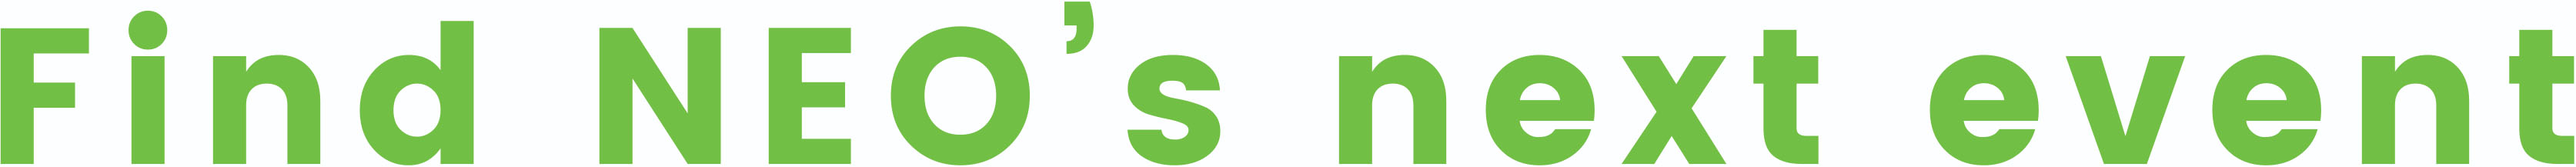
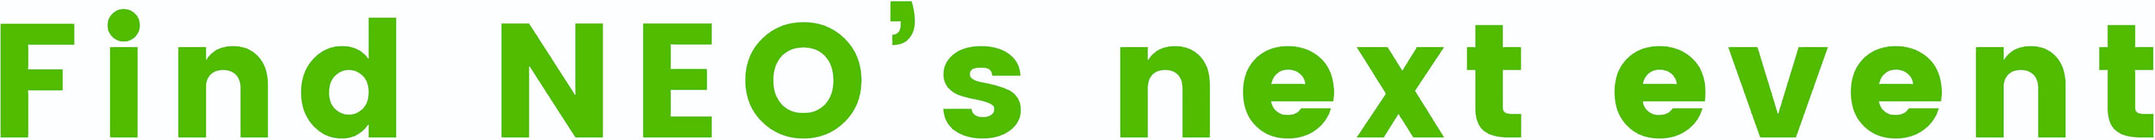
Feature/style (#700)
* 样式微调：颜色统一

* 样式调整

* 添加新钱包

diff --git a/NeoWeb/wwwroot/css/event.min.css b/NeoWeb/wwwroot/css/event.min.css
@@ -1,1 +1,1 @@
-body{background:#f3f3f3}select.form-control{border-radius:0;margin-right:10px}.btn{background:#9aca3d;color:#fff;border:none;border-radius:0;min-width:100px;letter-spacing:2px}.btn:focus,.btn:hover,.btn:active{background:#8aba2d!important;box-shadow:none!important;color:#fff}.event-line{border-bottom:3px solid #d6d6d6;position:relative;margin:12px 0;text-align:left}.event-btn{display:inline-block;background:#9aca3d;margin:10px;padding:5px 12px;color:#fff!important;font-weight:400!important}.event-btn:hover{background:#8aba2d;color:#fff!important}.event-line span{letter-spacing:3px;background-color:#f2f2f2;padding-left:10px;vertical-align:bottom;display:inline-block;margin-bottom:-8px}.event-item{position:relative;display:inline-block;margin:9px 6px;padding:5px;width:265px;border-radius:0;border:1px solid #fff;border-style:none solid;font-size:14px;text-align:center;word-break:normal;line-height:1.5;background-color:#fff;overflow:hidden;transition:box-shadow .5s;vertical-align:top}.event-item:hover{box-shadow:0 0 0 2px rgba(40,167,69,.5)}.event-item small{color:#6c6c6c;font-size:11px}.event-item img{max-width:100%;height:126.5px}.event-item img+div{border-top:1px solid #28a745}.event-item .org{margin:20px 5px 0;line-height:35px;border-top:1px solid #d3d3d3;text-align:left;color:#808080}.event-item .address,.event-item .date{color:#808080}.event-detail .type-img{border:2px solid #ebebeb}.event-detail .row{font-weight:bold}.event-detail{font-weight:normal;color:#222;background-color:#fff;padding:10px 20px;margin:30px 0;box-shadow:3px 3px 1px #e8e8e8}.event-detail .iconfont{vertical-align:middle;color:#8aba2d;font-weight:100}.event-detail .ticket-free{position:absolute;width:0;height:0;border-left:23px solid #9aca3d;border-top:23px solid #9aca3d;border-bottom:23px solid transparent;border-right:23px solid transparent}.ticket-free::after{content:"Free";position:absolute;top:-18px;left:-20px;color:#fff;font-size:12px}.event-detail img.type-img{width:100%;max-width:150px;max-height:150px;min-width:125px;min-height:125px}.event-detail a{color:#222;font-weight:600;letter-spacing:2px}.event-detail a:hover{color:#8aba2d}.event-detail a:active,.event-detail a:visited{color:#222}.e-detail-title:after{content:" ";border-bottom:2px solid #9aca3d;display:block;margin-top:5px}.event-detail .line{border-top:1px solid #d3d3d3;margin:5px 0}.search-group{margin:auto;width:80%}#eventCarousel img{max-height:370px}ul,li{list-style:none;margin:0;padding:0}.calender{padding:15px 0;min-height:300px}.calender .dis-table{width:100%;padding:15px 10px;color:#222;vertical-align:middle}.calender .iconfont{font-size:14px;vertical-align:middle;color:#737373;cursor:pointer}.calender .dis-table-cell{width:33%}.calender hr{border-top-color:#9aca3d;border-width:20px}.calender ul{margin:auto;vertical-align:top;font-size:0;text-align:left}.calender li{display:inline-block;width:14.1%;min-height:20px;vertical-align:top;text-align:center;white-space:normal;word-break:break-all;padding:5px;color:#222;font-size:18px;font-weight:600;white-space:nowrap}.cal-head li{font-size:12px;font-weight:100}.calender .had-event{color:#222;background:url(https://neo-cdn.azureedge.net/images/event/circle.png) no-repeat center;background-size:contain;border-radius:100%}.calender .today-mark{color:#00a04a}.calender .today-mark a{color:#00a04a}.contact-us{padding:20px 20px 10px;color:#222;line-height:1.4;font-weight:600;text-align:left;border-bottom:20px solid #8aba2d}.contact-us a{color:#222}.had-event a,.had-event a:hover,.had-event a:visited,.had-event a:active{color:#222}.select-news{border:1px solid #444}.news-list{display:inline-block;width:33%;vertical-align:top}.news-li{max-width:300px;width:100%}.news-li img{width:inherit}.event-banner{background-image:url(/images/event/homepage_hero_banner.jpg);padding:300px 0 50px;margin-bottom:80px}.event-banner .search-div{margin-bottom:-100px;background:linear-gradient(rgba(255,255,255,.9) 0%,#fff 25%);padding:50px;box-shadow:#ccc 8px 8px 0}.event-banner .container h1{color:#58bf00;font-size:72px;font-weight:bold}.left-to-center{text-align:right}@media only screen and (max-width:992px){.search-group{width:90%;margin:auto}.event-banner{padding:100px 0 50px}.event-banner .search-div{padding:50px 20px}}@media only screen and (max-width:576px){.search-div img{margin-bottom:30px!important}.event-banner .search-div{padding:20px}.left-to-center{text-align:center}}
+body{background:#f3f3f3}select.form-control{border-radius:0;margin-right:10px}.btn{background:#51bc00;color:#fff;border:none;border-radius:0;min-width:100px;letter-spacing:2px}.btn:focus,.btn:hover,.btn:active{background:#8aba2d!important;box-shadow:none!important;color:#fff}.event-line{border-bottom:3px solid #d6d6d6;position:relative;margin:12px 0;text-align:left}.event-btn{display:inline-block;background:#51bc00;margin:10px;padding:5px 12px;color:#fff!important;font-weight:400!important}.event-btn:hover{background:#8aba2d;color:#fff!important}.event-line span{letter-spacing:3px;background-color:#f2f2f2;padding-left:10px;vertical-align:bottom;display:inline-block;margin-bottom:-8px}.event-item{position:relative;display:inline-block;margin:9px 6px;padding:5px;width:265px;border-radius:0;border:1px solid #fff;border-style:none solid;font-size:14px;text-align:center;word-break:normal;line-height:1.5;background-color:#fff;overflow:hidden;transition:box-shadow .5s;vertical-align:top}.event-item:hover{box-shadow:0 0 0 2px rgba(40,167,69,.5)}.event-item small{color:#6c6c6c;font-size:11px}.event-item img{max-width:100%;height:126.5px}.event-item img+div{border-top:1px solid #28a745}.event-item .org{margin:20px 5px 0;line-height:35px;border-top:1px solid #d3d3d3;text-align:left;color:#808080}.event-item .address,.event-item .date{color:#808080}.event-detail .type-img{border:2px solid #ebebeb}.event-detail .row{font-weight:bold}.event-detail{font-weight:normal;color:#222;background-color:#fff;padding:10px 20px;margin:30px 0;box-shadow:3px 3px 1px #e8e8e8}.event-detail .iconfont{vertical-align:middle;color:#51bc00;font-weight:100}.event-detail .ticket-free{position:absolute;width:0;height:0;border-left:23px solid #51bc00;border-top:23px solid #51bc00;border-bottom:23px solid transparent;border-right:23px solid transparent}.ticket-free::after{content:"Free";position:absolute;top:-18px;left:-20px;color:#fff;font-size:12px}.event-detail img.type-img{width:100%;max-width:150px;max-height:150px;min-width:125px;min-height:125px}.event-detail a{color:#222;font-weight:600;letter-spacing:2px}.event-detail a:hover{color:#8aba2d}.event-detail a:active,.event-detail a:visited{color:#222}.e-detail-title:after{content:" ";border-bottom:2px solid #51bc00;display:block;margin-top:5px}.event-detail .line{border-top:1px solid #d3d3d3;margin:5px 0}.search-group{margin:auto;width:80%}#eventCarousel img{max-height:370px}ul,li{list-style:none;margin:0;padding:0}.calender{padding:15px 0;min-height:300px}.calender .dis-table{width:100%;padding:15px 10px;color:#222;vertical-align:middle}.calender .iconfont{font-size:14px;vertical-align:middle;color:#737373;cursor:pointer}.calender .dis-table-cell{width:33%}.calender hr{border-top-color:#51bc00;border-width:20px}.calender ul{margin:auto;vertical-align:top;font-size:0;text-align:left}.calender li{display:inline-block;width:14.1%;min-height:20px;vertical-align:top;text-align:center;white-space:normal;word-break:break-all;padding:5px;color:#222;font-size:18px;font-weight:600;white-space:nowrap}.cal-head li{font-size:12px;font-weight:100}.calender .had-event{color:#222;background:url('https://neo-cdn.azureedge.net/images/event/circle.png') no-repeat center;background-size:contain;border-radius:100%}.calender .today-mark{color:#00a04a}.calender .today-mark a{color:#00a04a}.contact-us{padding:20px 20px 10px;color:#222;line-height:1.4;font-weight:600;text-align:left;border-bottom:20px solid #8aba2d}.contact-us a{color:#222}.had-event a,.had-event a:hover,.had-event a:visited,.had-event a:active{color:#222}.select-news{border:1px solid #444}.news-list{display:inline-block;width:33%;vertical-align:top}.news-li{max-width:300px;width:100%}.news-li img{width:inherit}.event-banner{background-image:url(/images/event/homepage_hero_banner.jpg);background-size:cover;padding:300px 0 50px;margin-bottom:80px}.event-banner .search-div{margin-bottom:-100px;background:linear-gradient(rgba(255,255,255,.9) 0%,#fff 25%);padding:50px;box-shadow:#ccc 8px 8px 0}.event-banner .container h1{color:#58bf00;font-size:72px;font-weight:bold}.left-to-center{text-align:right}@media only screen and (max-width:992px){.search-group{width:90%;margin:auto}.event-banner{padding:100px 0 50px}.event-banner .search-div{padding:50px 20px}}@media only screen and (max-width:576px){.search-div img{margin-bottom:30px!important}.event-banner .search-div{padding:20px}.left-to-center{text-align:center}}

diff --git a/NeoWeb/wwwroot/css/blog.min.css b/NeoWeb/wwwroot/css/blog.min.css
@@ -1,1 +1,1 @@
-body,html{height:auto}ul,ol{margin-bottom:0}.blog-container{text-align:center;color:#6c6c6c;font-weight:100}a{cursor:pointer;text-decoration:none;word-break:break-word}.blog_title{font-weight:100;letter-spacing:3px;text-align:center}.search-form{max-width:400px;margin:auto}.blog_date::before,.blog_date::after{content:"";display:table}.blog_date::after{clear:both}.blog_date ul{display:none;padding:0}.col-lg-1.blog_date{padding:0}.blog_date>li a{cursor:pointer;text-decoration:none}.blog_date>li:last-child{padding-right:0}.blog_scroll{overflow-y:auto}.blog_scroll::-webkit-scrollbar{width:5px;height:5px;background-color:transparent}.blog_scroll::-webkit-scrollbar-track{background-color:transparent}.blog_scroll::-webkit-scrollbar-thumb{border-radius:5px;background-color:#aaa}.language li{display:inline-block;margin:0 20px 20px 0}.blog_date li,.blog_date li a{color:#aaa}.year:hover,.year:focus,.month:hover,.month:focus{color:#58bf00}.blog-list li{padding:30px 40px;background:#fff;color:#888;text-align:left}.blog-list li:first-child{margin-top:0!important}.blog-list a.blog-title{color:#6c6c6c;text-decoration:none}.blog-list a.blog-title:hover{color:#58bf00}.blog-list a.blog-summary{color:#888;text-decoration:none}.blog-list a.blog-summary:hover{color:#aaa}.blog_date.artical-date{padding-top:50px}.nav-artical{line-height:2}.nav-artical div{display:inline-block;width:32.5%}.nav-artical .prev-artical{margin-right:30px}.artical-content{background:#fff;padding:42px 100px;font-family:"Source-Han-Light","Microsoft YaHei",PingFangSC-Light,"PingHei","Lucida Grande","STHeitiSC-Light","BBAlpha Sans","S60 Sans","Hiragino Sans GB","Microsoft YaHei Light","Verdana",SimHei,"WenQuanYi Micro Hei",sans-serif;font-size:18px}@media only screen and (max-width:780px){.artical-content{font-family:"Source-Han-Light","Microsoft YaHei",PingFangSC-Light,"PingHei","Lucida Grande","STHeitiSC-Light","BBAlpha Sans","S60 Sans","Hiragino Sans GB","Microsoft YaHei Light","Verdana",SimHei,"WenQuanYi Micro Hei",sans-serif !important;font-size:16px !important}}.artical-content ul,.artical-content li{list-style:initial}.nav-artical{padding:10px;text-align:center;white-space:nowrap;color:#6c6c6c;letter-spacing:1px}.artical-content h2{line-height:2;padding-bottom:20px;color:#6c6c6c}.artical-content a{color:#58bf00}.artical-content p,.blog-content ul{margin:0;text-indent:0!important;text-align:left;padding-top:0;padding-bottom:20px}.blog-content :first-child img{width:100%;height:100%}.blog-content img{max-width:100%}.nav-artical a{display:inline-block;height:inherit;color:#6c6c6c}.nav-artical a:hover{text-decoration:none}.nav-artical .iconfont{font-size:22px;font-style:normal;color:#aaa;margin:0 3px}.icon-left{margin-right:20px}.login-part{margin-top:10px}#qrcode{position:absolute;right:30px;top:-35px;display:none;border:1px solid #eee}.qrcode-div{position:relative;margin-top:-45px;cursor:pointer}.qrcode-div .iconfont{font-size:20px}.qrcode-div:hover #qrcode{display:block;line-height:0}#qrcode canvas{width:150px;height:150px;border:10px solid #fff}@media only screen and (max-width:1199px){body{padding-top:84px}.blog_title{letter-spacing:2px}.blog-list{padding:0;margin-top:0}.mobile-show.blog_date{margin-left:20px}.blog_date{padding:0;text-align:center;margin-bottom:3px}.blog_date>li{margin:auto;display:inline-block;vertical-align:text-top}.selected-part>a::after{content:" ";font-size:12px;vertical-align:middle}.blog_scroll{height:800px}.nav-artical .iconfont{font-size:15px}.blog-list li{margin:12px 0;padding:20px 10px}.blog-list h2 a{color:#6c6c6c}.artical-container{padding:0}.nav-artical{background:#fff}.nav-artical-top::after{content:" ";display:block;margin-top:5px;border-bottom:1px solid #e4e4e4}.nav-artical-bottom::before{content:" ";display:block;margin-bottom:5px;border-top:1px solid #e4e4e4}.language{padding-left:8px}.qrcode-div .iconfont{font-size:15px}}@media only screen and (min-width:780px){.blog-content .img-cover{width:calc(100% + 200px);margin-left:-100px;max-width:none}}@media only screen and (max-width:780px){.blog_scroll{height:500px}.nav-artical .prev-artical{margin-right:12px}.artical-content{padding:0 12px}.nav-artical{padding:12px 5px}}
+body,html{height:auto}ul,ol{margin-bottom:0}.blog-container{text-align:center;color:#6c6c6c;font-weight:100}a{cursor:pointer;text-decoration:none;word-break:break-word}.form-control{border-radius:0}.btn-success{background:#58bf00;border-color:#58bf00;border-radius:0;padding:.375rem 1rem;letter-spacing:2px;text-transform:uppercase;font-weight:600}.btn-success:hover{background:#48af00;border-color:#48af00}.blog_title{font-weight:100;letter-spacing:3px;text-align:center}.search-form{max-width:400px;margin:auto}.blog_date::before,.blog_date::after{content:"";display:table}.blog_date::after{clear:both}.blog_date ul{display:none;padding:0}.col-lg-1.blog_date{padding:0}.blog_date>li a{cursor:pointer;text-decoration:none}.blog_date>li:last-child{padding-right:0}.blog_scroll{overflow-y:auto}.blog_scroll::-webkit-scrollbar{width:5px;height:5px;background-color:transparent}.blog_scroll::-webkit-scrollbar-track{background-color:transparent}.blog_scroll::-webkit-scrollbar-thumb{border-radius:5px;background-color:#aaa}.language li{display:inline-block;margin:0 20px 20px 0}.blog_date li,.blog_date li a{color:#aaa}.year:hover,.year:focus,.month:hover,.month:focus{color:#58bf00}.blog-list li{padding:30px 40px;background:#fff;color:#888;text-align:left}.blog-list li:first-child{margin-top:0!important}.blog-list a.blog-title{color:#6c6c6c;text-decoration:none}.blog-list a.blog-title:hover{color:#58bf00}.blog-list a.blog-summary{color:#888;text-decoration:none}.blog-list a.blog-summary:hover{color:#aaa}.blog_date.artical-date{padding-top:50px}.nav-artical{line-height:2}.nav-artical div{display:inline-block;width:32.5%}.nav-artical .prev-artical{margin-right:30px}.artical-content{background:#fff;padding:42px 100px;font-family:"Source-Han-Light","Microsoft YaHei",PingFangSC-Light,"PingHei","Lucida Grande","STHeitiSC-Light","BBAlpha Sans","S60 Sans","Hiragino Sans GB","Microsoft YaHei Light","Verdana",SimHei,"WenQuanYi Micro Hei",sans-serif;font-size:18px}@media only screen and (max-width:780px){.artical-content{font-family:"Source-Han-Light","Microsoft YaHei",PingFangSC-Light,"PingHei","Lucida Grande","STHeitiSC-Light","BBAlpha Sans","S60 Sans","Hiragino Sans GB","Microsoft YaHei Light","Verdana",SimHei,"WenQuanYi Micro Hei",sans-serif !important;font-size:16px !important}}.artical-content ul,.artical-content li{list-style:initial}.nav-artical{padding:10px;text-align:center;white-space:nowrap;color:#6c6c6c;letter-spacing:1px}.artical-content h2{line-height:2;padding-bottom:20px;color:#6c6c6c}.artical-content a{color:#58bf00}.artical-content p,.blog-content ul{margin:0;text-indent:0!important;text-align:left;padding-top:0;padding-bottom:20px}.blog-content :first-child img{width:100%;height:100%}.blog-content img{max-width:100%}.nav-artical a{display:inline-block;height:inherit;color:#6c6c6c}.nav-artical a:hover{text-decoration:none}.nav-artical .iconfont{font-size:22px;font-style:normal;color:#aaa;margin:0 3px}.icon-left{margin-right:20px}.login-part{margin-top:10px}#qrcode{position:absolute;right:30px;top:-35px;display:none;border:1px solid #eee}.qrcode-div{position:relative;margin-top:-45px;cursor:pointer}.qrcode-div .iconfont{font-size:20px}.qrcode-div:hover #qrcode{display:block;line-height:0}#qrcode canvas{width:150px;height:150px;border:10px solid #fff}@media only screen and (max-width:1199px){body{padding-top:84px}.blog_title{letter-spacing:2px}.blog-list{padding:0;margin-top:0}.mobile-show.blog_date{margin-left:20px}.blog_date{padding:0;text-align:center;margin-bottom:3px}.blog_date>li{margin:auto;display:inline-block;vertical-align:text-top}.selected-part>a::after{content:" ";font-size:12px;vertical-align:middle}.blog_scroll{height:800px}.nav-artical .iconfont{font-size:15px}.blog-list li{margin:12px 0;padding:20px 10px}.blog-list h2 a{color:#6c6c6c}.artical-container{padding:0}.nav-artical{background:#fff}.nav-artical-top::after{content:" ";display:block;margin-top:5px;border-bottom:1px solid #e4e4e4}.nav-artical-bottom::before{content:" ";display:block;margin-bottom:5px;border-top:1px solid #e4e4e4}.language{padding-left:8px}.qrcode-div .iconfont{font-size:15px}}@media only screen and (min-width:780px){.blog-content .img-cover{width:calc(100% + 200px);margin-left:-100px;max-width:none}}@media only screen and (max-width:780px){.blog_scroll{height:500px}.nav-artical .prev-artical{margin-right:12px}.artical-content{padding:0 12px}.nav-artical{padding:12px 5px}}

diff --git a/NeoWeb/wwwroot/css/testnet.min.css b/NeoWeb/wwwroot/css/testnet.min.css
@@ -1,1 +1,1 @@
-html,body{background:#3f3f3f}.navbar{background:#3f3f3f;background:rgba(63,63,63,.9);border-top:none}.navbar-expand .navbar-nav .nav-link{color:#fff;font-weight:100}.navbar-expand .navbar-nav a:hover{color:#beeb00}#more_list li{color:#fff;background:#3f3f3f;background:rgba(63,63,63,.9)}.navbar-collapse{box-shadow:none}.main-footer{background:#3f3f3f}.content-border{margin:30px auto 0;padding:100px 50px;text-align:center;letter-spacing:1px;color:#fff;min-height:100%;}.center-area{padding:0 20px}[class*=btneo]{margin:auto;height:55px;line-height:55px;vertical-align:middle;border-radius:0;font-weight:100}.btneo-fri{display:block;width:100%;max-width:300px;color:#333;background:#beeb00;border:none;padding:0 20px}.btneo-fri:hover{color:#222;background:#aedb00;border-radius:0;text-decoration:none}.btneo-fri:active{color:#222;background:#beeb00;border-radius:0;box-shadow:0 0 8px #96c800}.btneo-sec{display:block;max-width:300px;color:#f8f8f8;background:transparent;border:1px solid #fff;cursor:pointer}.btneo-sec:hover{color:#f8f8f8;background:rgba(22,22,22,.2);border-radius:0;text-decoration:none}.btneo-sec:active{color:#f8f8f8;background:rgba(22,22,22,.2);border-radius:0;box-shadow:0 0 8px #96c800}.link-apply{background-image:linear-gradient(140deg,#a5a5a5 0%,#6d6d6d 100%,#6c6c6c 100%);background-image:url(https://neo-cdn.azureedge.net/images/deve-bg-1.png),linear-gradient(140deg,#a5a5a5 0%,#6d6d6d 100%,#6c6c6c 100%);background-repeat:no-repeat;background-size:contain;background-position:-50px center,left center;color:#fff;font-weight:100}.link-apply .h1{color:#beeb00;font-weight:100}.link-apply .apply-intro{line-height:2;padding:0 12px;text-align:left}.github-back{background:url(https://neo-cdn.azureedge.net/images/deve-git.jpg) no-repeat center;background-size:cover;color:#86e991}.github-back .btneo-sec{border:1px solid #86e991;color:#86e991}.github-back .btneo-sec:hover{color:#3f3f3f;background:rgba(134,233,145,.7);border:none}.docu-back{background:url(https://neo-cdn.azureedge.net/images/deve-docu.jpg) no-repeat center;background-size:cover;color:#73a2ff}.docu-back .btneo-sec{border:1px solid #73a2ff;color:#73a2ff}.docu-back .btneo-sec:hover{color:#3f3f3f;background:rgba(115,162,255,.75);border:none}.apply-content{background:#6c6c6c;color:#fff;text-align:center;letter-spacing:1px;font-weight:100;padding:18px 0}.apply-title{color:#beeb00}.apply-content{text-align:left}.apply-content ul{padding:0}.apply-content ul::before,.apply-content ul::after{content:" ";display:table}.apply-content ul::after{clear:both}.apply-content ul label{margin-bottom:10px;color:#d8d8d8;font-size:14px;font-weight:100}.apply-content .form-control{padding:5px;font-size:16px}.apply-content textarea{min-height:70px}.apply-btn-p{margin-top:12px}.pub-key-hint{margin-top:10px}.completed-content{background:#6c6c6c;color:#fff;text-align:center;letter-spacing:1px;font-weight:100;padding:50px 0 80px;font-size:18px;line-height:2}.alert-text{width:80%;margin:20px auto}@media only screen and (max-width:1200px){.content-border{padding:100px 40px;margin-top:15px}.btneo-sec{max-width:200px}}@media only screen and (max-width:576px){.link-apply{background-repeat:no-repeat;background-size:contain;background-size:200px,100%;background-position:center -160px,left top}.content-border{padding:100px 30px 60px;max-width:355px}.github-back,.docu-back{padding:80px 30px}[class*=btneo]{height:45px;line-height:45px}.btneo-fri{max-width:200px}}
+html,body{background:#3f3f3f}.navbar{background:#3f3f3f;background:rgba(63,63,63,.9);border-top:none}.navbar-expand .navbar-nav .nav-link{color:#fff;font-weight:100}.navbar-expand .navbar-nav a:hover{color:#58bf00}#more_list li{color:#fff;background:#3f3f3f;background:rgba(63,63,63,.9)}.navbar-collapse{box-shadow:none}.main-footer{background:#3f3f3f}.content-border{margin:30px auto 0;padding:100px 50px;text-align:center;letter-spacing:1px;color:#fff;min-height:100%}.center-area{padding:0 20px}[class*=btneo]{margin:auto;height:55px;line-height:55px;vertical-align:middle;border-radius:0;font-weight:100}.btneo-fri{display:block;width:100%;max-width:300px;color:#333;background:#beeb00;border:none;padding:0 20px}.btneo-fri:hover{color:#222;background:#aedb00;border-radius:0;text-decoration:none}.btneo-fri:active{color:#222;background:#beeb00;border-radius:0;box-shadow:0 0 8px #96c800}.btneo-sec{display:block;max-width:300px;color:#f8f8f8;background:transparent;border:1px solid #fff;cursor:pointer}.btneo-sec:hover{color:#f8f8f8;background:rgba(22,22,22,.2);border-radius:0;text-decoration:none}.btneo-sec:active{color:#f8f8f8;background:rgba(22,22,22,.2);border-radius:0;box-shadow:0 0 8px #96c800}.link-apply{background-image:linear-gradient(140deg,#a5a5a5 0%,#6d6d6d 100%,#6c6c6c 100%);background-image:url('https://neo-cdn.azureedge.net/images/deve-bg-1.png'),linear-gradient(140deg,#a5a5a5 0%,#6d6d6d 100%,#6c6c6c 100%);background-repeat:no-repeat;background-size:contain;background-position:-50px center,left center;color:#fff;font-weight:100}.link-apply .h1{color:#beeb00;font-weight:100}.link-apply .apply-intro{line-height:2;padding:0 12px;text-align:left}.github-back{background:url('https://neo-cdn.azureedge.net/images/deve-git.jpg') no-repeat center;background-size:cover;color:#86e991}.github-back .btneo-sec{border:1px solid #86e991;color:#86e991}.github-back .btneo-sec:hover{color:#3f3f3f;background:rgba(134,233,145,.7);border:none}.docu-back{background:url('https://neo-cdn.azureedge.net/images/deve-docu.jpg') no-repeat center;background-size:cover;color:#73a2ff}.docu-back .btneo-sec{border:1px solid #73a2ff;color:#73a2ff}.docu-back .btneo-sec:hover{color:#3f3f3f;background:rgba(115,162,255,.75);border:none}.apply-content{background:#6c6c6c;color:#fff;text-align:center;letter-spacing:1px;font-weight:100;padding:18px 0}.apply-title{color:#beeb00}.apply-content{text-align:left}.apply-content ul{padding:0}.apply-content ul::before,.apply-content ul::after{content:" ";display:table}.apply-content ul::after{clear:both}.apply-content ul label{margin-bottom:10px;color:#d8d8d8;font-size:14px;font-weight:100}.apply-content .form-control{padding:5px;font-size:16px;border-radius:0}.apply-content .form-control:focus{border-color:#aedb00;box-shadow:0 0 10px .2rem rgba(175,220,0,.25)}.apply-content textarea{min-height:70px}.apply-btn-p{margin-top:12px}.pub-key-hint{margin-top:10px}.completed-content{background:#6c6c6c;color:#fff;text-align:center;letter-spacing:1px;font-weight:100;padding:50px 0 80px;font-size:18px;line-height:2}.alert-text{width:80%;margin:20px auto}@media only screen and (max-width:1200px){.content-border{padding:100px 40px;margin-top:15px}.btneo-sec{max-width:200px}}@media only screen and (max-width:576px){.link-apply{background-repeat:no-repeat;background-size:contain;background-size:200px,100%;background-position:center -160px,left top}.content-border{padding:100px 30px 60px;max-width:355px}.github-back,.docu-back{padding:80px 30px}[class*=btneo]{height:45px;line-height:45px}.btneo-fri{max-width:200px}}

diff --git a/NeoWeb/wwwroot/css/event.css b/NeoWeb/wwwroot/css/event.css
@@ -8,7 +8,7 @@ select.form-control {
 }
 
 .btn {
-    background: #9ACA3D;
+    background: #51bc00;
     color:#FFFFFF;
     border: none;
     border-radius: 0;
@@ -33,7 +33,7 @@ select.form-control {
 
 .event-btn{
     display:inline-block;
-    background:#9ACA3D;
+    background:#51bc00;
     margin:10px;
     padding:5px 12px;
     color:#FFFFFF!important;
@@ -120,7 +120,7 @@ select.form-control {
 
 .event-detail .iconfont {
     vertical-align:middle;
-    color:#8ABA2D;
+    color:#51bc00;
     font-weight:100;
 }
 
@@ -128,8 +128,8 @@ select.form-control {
     position:absolute;
     width:0px;
     height:0px;
-    border-left:23px solid #9ACA3D;
-    border-top: 23px solid #9ACA3D;
+    border-left:23px solid #51bc00;
+    border-top: 23px solid #51bc00;
     border-bottom:23px solid transparent;
     border-right:23px solid transparent;
 }
@@ -168,7 +168,7 @@ select.form-control {
 
 .e-detail-title:after{
     content:" ";
-    border-bottom:2px solid #9ACA3D;
+    border-bottom:2px solid #51bc00;
     display:block;
     margin-top:5px;
 }
@@ -213,7 +213,7 @@ ul,li{
     width:33%;
 }
 .calender hr {
-    border-top-color:#9ACA3D;
+    border-top-color:#51bc00;
     border-width:20px;
 }
 .calender ul{
@@ -292,6 +292,7 @@ ul,li{
 
 .event-banner {
     background-image: url(/images/event/homepage_hero_banner.jpg);
+    background-size:cover;
     padding: 300px 0 50px;
     margin-bottom: 80px;
 }

diff --git a/NeoWeb/wwwroot/css/testnet.css b/NeoWeb/wwwroot/css/testnet.css
@@ -12,7 +12,7 @@
     font-weight:100;
 }
 .navbar-expand .navbar-nav a:hover {
-    color:#beeb00;
+    color:rgb(88, 191, 0);
 }
 #more_list li {
     color:#FFFFFF;
@@ -172,6 +172,11 @@
 .apply-content .form-control {
     padding:5px;
     font-size:16px;
+    border-radius:0;
+}
+.apply-content .form-control:focus {
+    border-color:#aedb00;
+    box-shadow:0 0 10px 0.2rem rgba(175, 220, 0, 0.25);
 }
 .apply-content textarea {
     min-height: 70px;

diff --git a/NeoWeb/wwwroot/css/blog.css b/NeoWeb/wwwroot/css/blog.css
@@ -15,6 +15,22 @@ a{
     text-decoration:none;
     word-break: break-word;
 }
+.form-control {
+    border-radius:0;
+}
+.btn-success {
+    background:#58BF00;
+    border-color:#58BF00;
+    border-radius:0;
+    padding: 0.375rem 1rem;
+    letter-spacing:2px;
+    text-transform:uppercase;
+    font-weight:600;
+}
+.btn-success:hover{
+    background:#48AF00;
+    border-color:#48AF00;
+}
 
 .blog_title {
     font-weight: 100;
